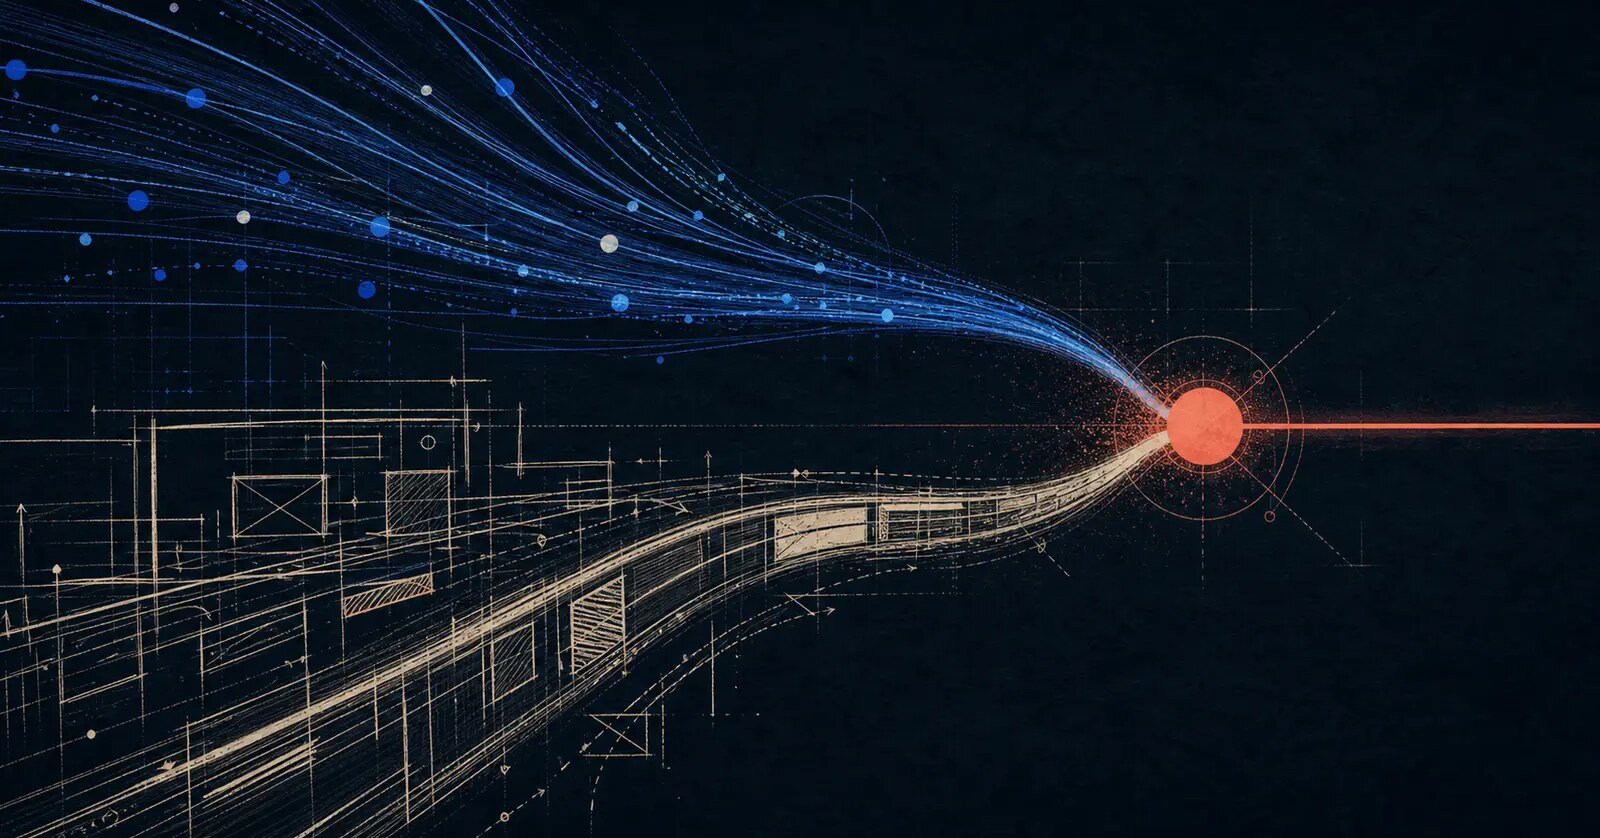
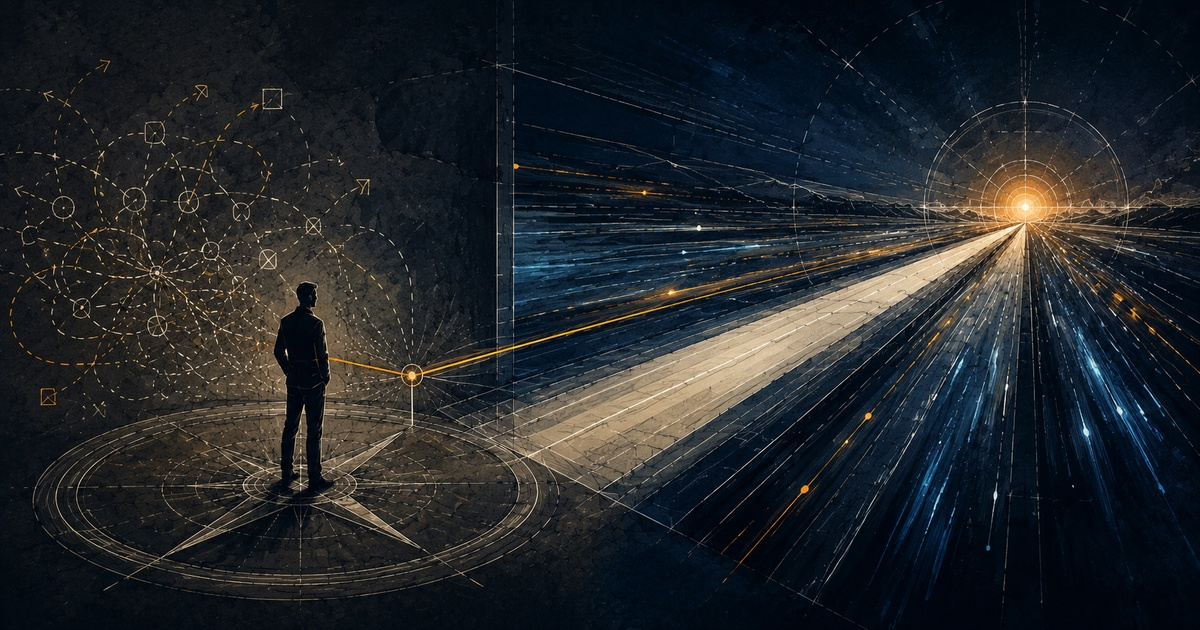
add 2 new blog posts

diff --git a/blog/index.html b/blog/index.html
@@ -13,8 +13,8 @@
   <meta property="og:title" content="ideaXplode Blog | AI & Software Development Insights">
   <meta property="og:description" content="Practical insights from ideaXplode on AI-powered software development, product decisions, MVPs, automation, and building reliable real-world software.">
   <meta property="og:url" content="https://www.ideaxplode.com/blog/">
-  <meta property="og:image" content="https://www.ideaxplode.com/blog/images/cover.jpg">
-  <meta property="og:image:secure_url" content="https://www.ideaxplode.com/blog/images/cover.jpg">
+  <meta property="og:image" content="https://www.ideaxplode.com/blog/images/000-cover.jpg">
+  <meta property="og:image:secure_url" content="https://www.ideaxplode.com/blog/images/000-cover.jpg">
   <meta property="og:image:type" content="image/jpeg">
   <meta property="og:image:width" content="1600">
   <meta property="og:image:height" content="838">
@@ -22,7 +22,7 @@
   <meta name="twitter:card" content="summary_large_image">
   <meta name="twitter:title" content="ideaXplode Blog | AI & Software Development Insights">
   <meta name="twitter:description" content="Practical insights from ideaXplode on AI-powered software development, product decisions, MVPs, automation, and building reliable real-world software.">
-  <meta name="twitter:image" content="https://www.ideaxplode.com/blog/images/cover.jpg">
+  <meta name="twitter:image" content="https://www.ideaxplode.com/blog/images/000-cover.jpg">
   <meta name="twitter:image:alt" content="An illustrated ideaXplode journal about AI and software engineering">
   <link rel="icon" href="/favicon.ico" sizes="any">
   <link rel="icon" type="image/png" sizes="32x32" href="/assets/icons/favicon-32x32.png">
@@ -113,7 +113,7 @@
         </div>
 
         <div class="hero__art" aria-hidden="true">
-          <img src="/blog/images/cover.jpg" alt="" width="1600" height="838" fetchpriority="high">
+          <img src="/blog/images/000-cover.jpg" alt="" width="1600" height="838" fetchpriority="high">
         </div>
       </div>
     </section>

diff --git a/blog/drafts/001 - AI can build faster. But are we building the right thing_.md b/blog/drafts/001 - AI can build faster. But are we building the right thing_.md
@@ -1,0 +1,98 @@
+# Blog Post
+
+*This document specifies the details for a new blog post in ideaXplode’s blog site.*
+
+## Title
+
+AI can build faster. But are we building the right thing?
+
+## Description
+
+AI can help us build software faster than ever. But speed only matters when we are building the right thing.
+
+## Pull Quote 1
+
+AI can build fast. But can it decide what is worth building?
+
+## Pull Quote 2
+
+The faster we build, the faster we can also build the wrong thing.
+
+## Read duration
+
+2 min read
+
+## Blog Body
+
+AI is making software development incredibly fast.
+
+Code? Faster. Designs? Faster. Testing? Faster. Prototypes? Sometimes almost instant.
+
+Sounds great, right?
+
+It is.
+
+But there is a more important question:
+
+**What exactly are we building?**
+
+And another:
+
+**Should we be building it at all?**
+
+That is where things get interesting.
+
+AI can generate an impressive application from a prompt. But it does not automatically know whether customers need it, whether it solves the real business problem, or whether half its features should exist.
+
+So before asking AI to build, we still need to ask:
+
+* Who is this for?  
+* What problem are they facing?  
+* What really needs to change?  
+* What is the smallest useful solution?  
+* What should we *not* build?
+
+These questions matter even more now.
+
+Why?
+
+Because when building becomes cheap and fast, it becomes very easy to start too early.
+
+We can automate a broken process instead of fixing it.
+
+We can build ten features when users need two.
+
+We can produce beautiful software that solves the wrong problem.
+
+And if that happens, has AI failed?
+
+Not really.
+
+**It may have done exactly what we asked. We simply asked it to build the wrong thing.**
+
+So does AI make experienced product thinking less important?
+
+Quite the opposite.
+
+AI is excellent at execution.
+
+Humans still need to provide direction.
+
+We need to understand the business, talk to users, challenge assumptions, make trade-offs and decide what actually creates value.
+
+The best approach is therefore simple:
+
+**Humans decide where to go. AI helps us get there faster.**
+
+That is how we think about AI-powered software development at ideaXplode.
+
+Not *“How quickly can we build this?”*
+
+But first:
+
+**“Is this the right thing to build?”**
+
+Because speed is powerful.
+
+But only when it is pointed in the right direction.
+

diff --git a/blog/drafts/002 - AI is unpredictable. Does your software have to be_.md b/blog/drafts/002 - AI is unpredictable. Does your software have to be_.md
@@ -1,0 +1,96 @@
+# Blog Post
+
+*This document specifies the details for a new blog post in ideaXplode’s blog site.*
+
+## Title
+
+AI is unpredictable. Does your software have to be?
+
+## Description
+
+AI can be uncertain by nature. Good software engineering makes sure the system around it is not.
+
+## Pull Quote 1
+
+AI may be probabilistic. Your business-critical software cannot be careless.
+
+## Pull Quote 2
+
+The question is not “Can AI do this?” It is “What happens when AI gets it wrong?”
+
+## Read duration
+
+2 min read
+
+## Blog Body
+
+Traditional software is predictable.
+
+Same input. Same conditions. Same result.
+
+AI?
+
+Not quite.
+
+Ask the same question twice and you may get two different answers.
+
+Is that bad?
+
+Not necessarily. That variability is part of what makes AI useful.
+
+But it creates an important engineering question:
+
+**How do we put something unpredictable inside software that businesses need to trust?**
+
+The answer is not to make AI perfectly predictable.
+
+It is to make the **system around it dependable.**
+
+Suppose AI reads an expense receipt and chooses a category.
+
+It may understand the receipt far better than a simple rule.
+
+But what if it gets the category wrong?
+
+Should the software just accept it?
+
+Of course not.
+
+It can validate the result.
+
+Retry when something looks wrong.
+
+Restrict what the AI is allowed to do.
+
+Use traditional rules for critical decisions.
+
+Fall back to another process.
+
+Or ask a human to approve the action.
+
+**AI can be probabilistic without the whole application becoming unreliable.**
+
+And the amount of protection depends on one simple question:
+
+**What happens if the AI gets this wrong?**
+
+A marketing headline? Probably not much.
+
+Payroll? Payments? Customer permissions?
+
+Very different story.
+
+That is why good AI-powered software does not use AI everywhere.
+
+AI handles what benefits from flexibility — understanding language, extracting meaning, summarising and recommending.
+
+Traditional software handles what must stay predictable — permissions, calculations, validations, payments and business rules.
+
+At ideaXplode, that is how we think AI should be engineered.
+
+Not by blindly trusting the model.
+
+But by building a reliable system around it.
+
+**AI may remain uncertain. The software around it should not be.**
+

diff --git a/AGENTS.md b/AGENTS.md
@@ -22,6 +22,6 @@
 
 1. The blog is static: its listing is `blog/index.html`, and posts use `blog/<three-digit-serial>-<slug>/index.html`. Serial numbers are permanent, organizational only, and used in URLs and asset filenames—not displayed in the UI.
 2. Use the latest published post as the reference when adding a post. Preserve the blog’s overall visual, responsive, and accessibility standards, while allowing content-appropriate variations. Keep reusable presentation and behaviour in `blog/blog.css`, `blog/story.css`, and `blog/article.js`; do not create post-specific stylesheets.
-3. Hero/social images live in `blog/images/` as `<serial>.jpg`; `cover.jpg` is reserved for the blog-index hero.
+3. Hero/social images live in `blog/images/` as `<serial>.jpg`; `000-cover.jpg` is reserved for the blog-index hero.
 4. For a new post, assign the next serial and integrate the supplied content/image, accurate publication details, reading time, alt text, and analytics identifier. Feature it as the latest post on the blog and main-page listings, keep other posts newest-first, and select genuinely relevant related posts. Check every reused title, summary, link, and asset.
 5. Give every public page accurate canonical, robots, Open Graph, X, and JSON-LD metadata (`BlogPosting`/`Blog` and `BreadcrumbList` as appropriate). When indexable public routes or meaningful page content change, update the canonical-only HTTPS `sitemap.xml` and relevant `<lastmod>` values; keep `robots.txt` pointing to it and verify internal links, metadata, structured data, and sitemap coverage together.
